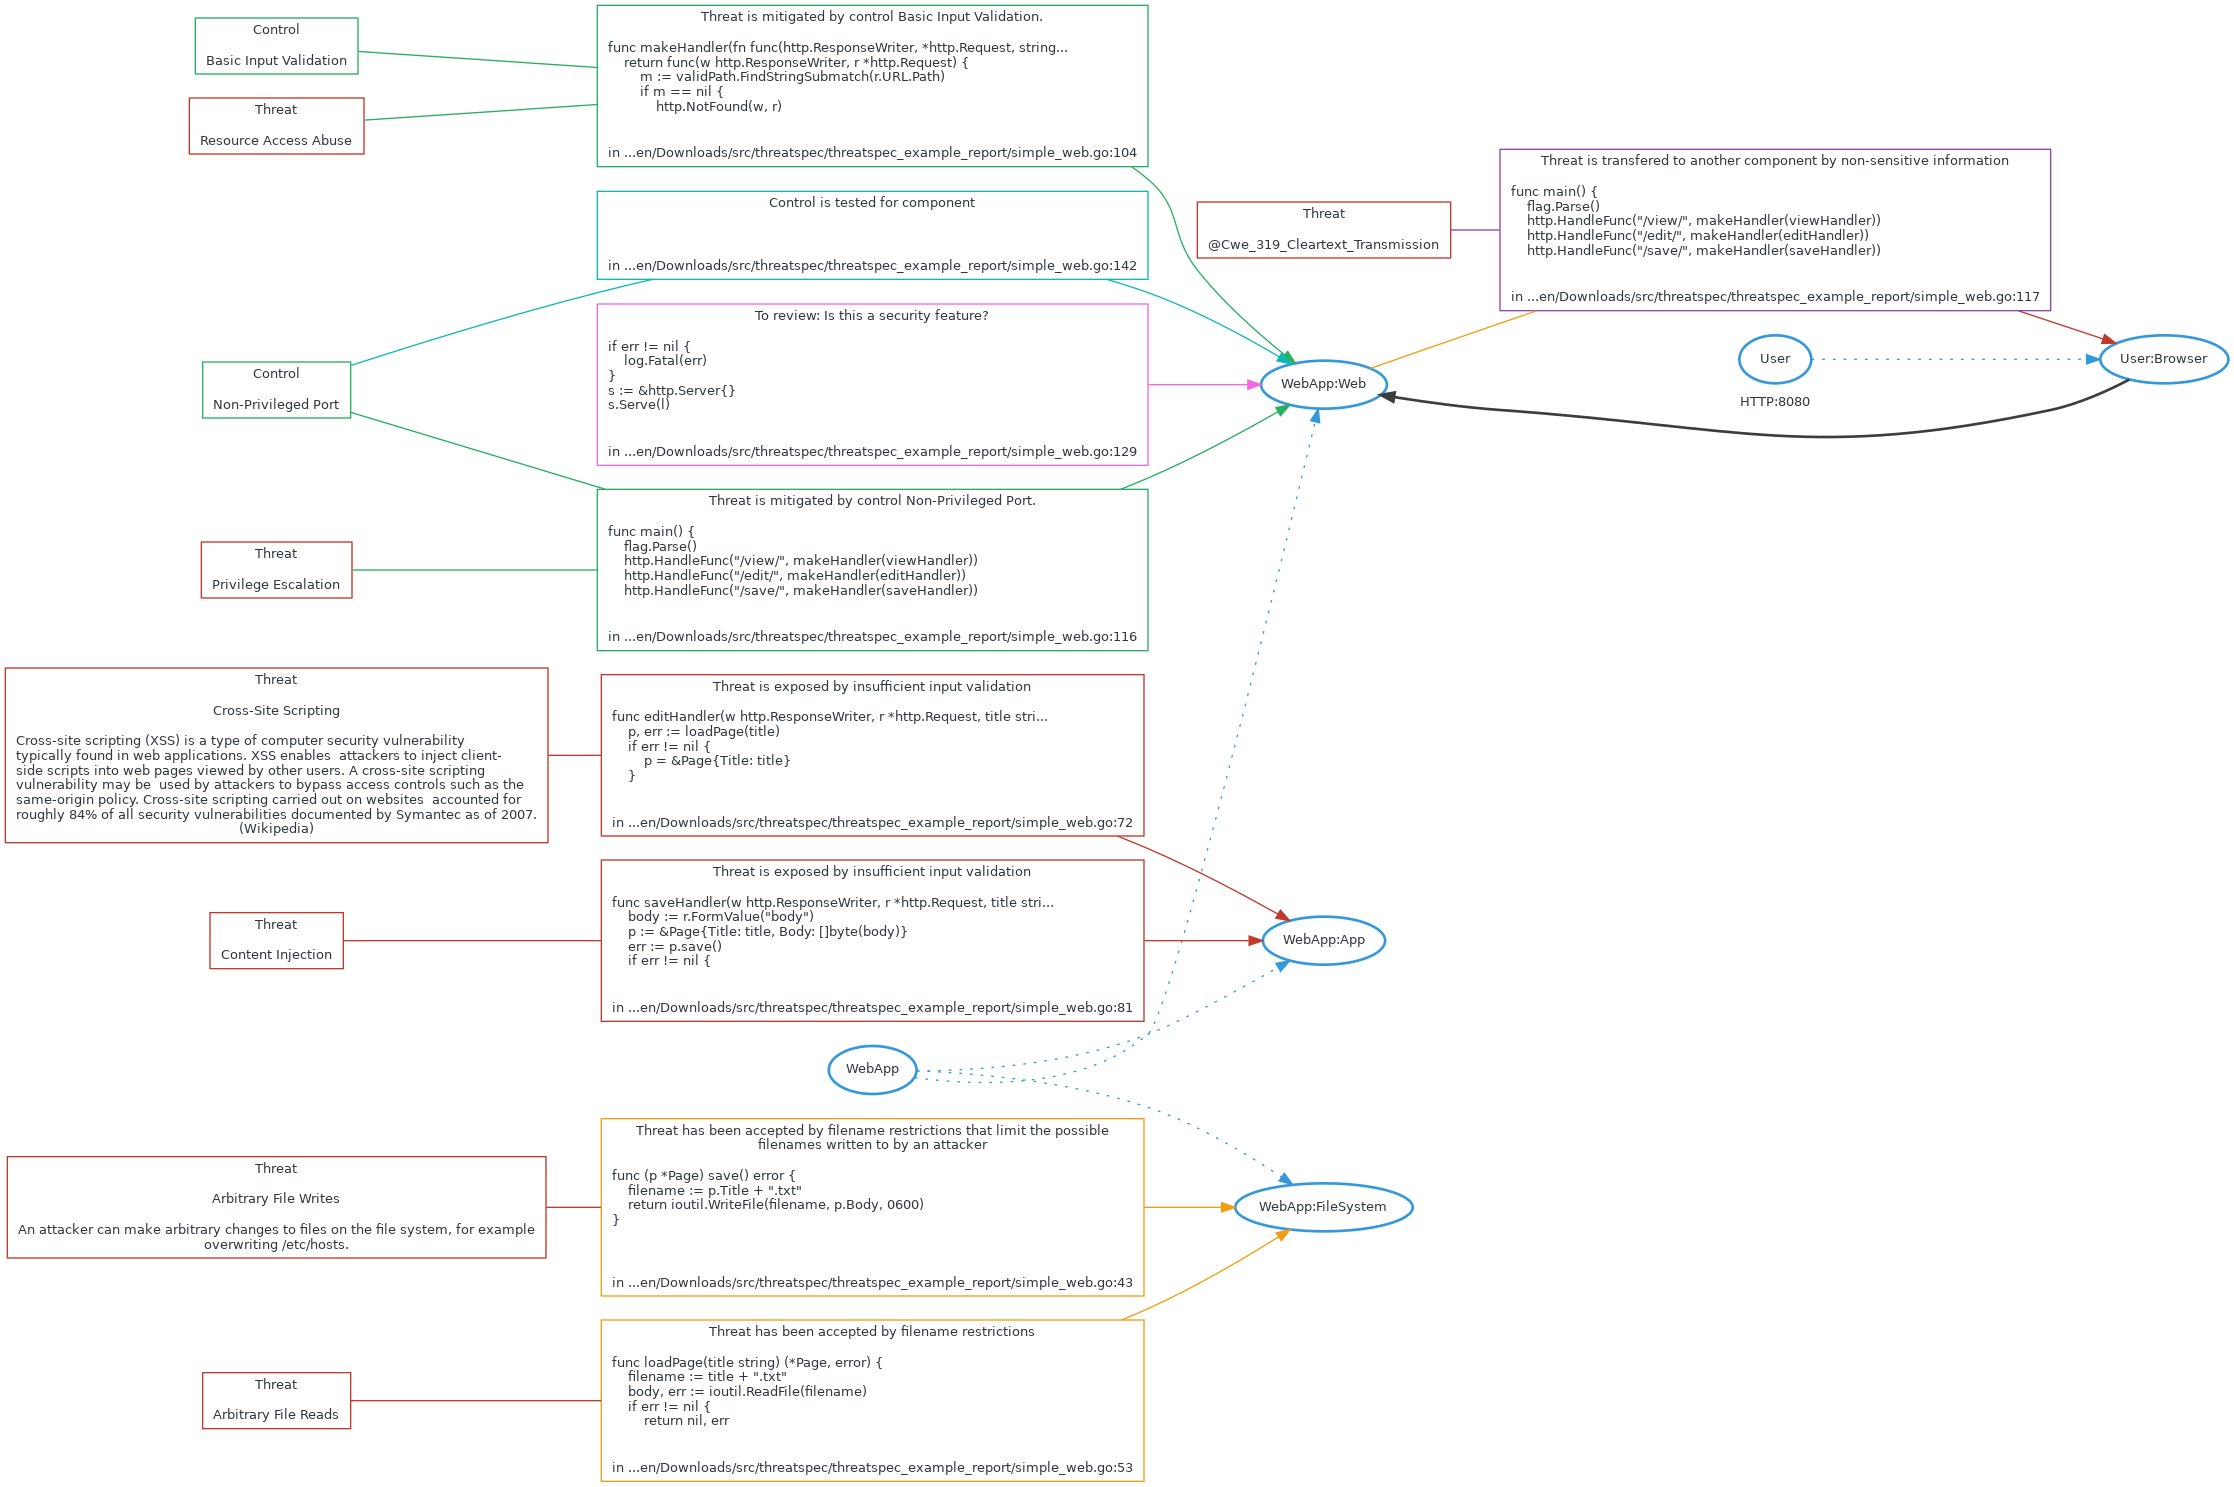
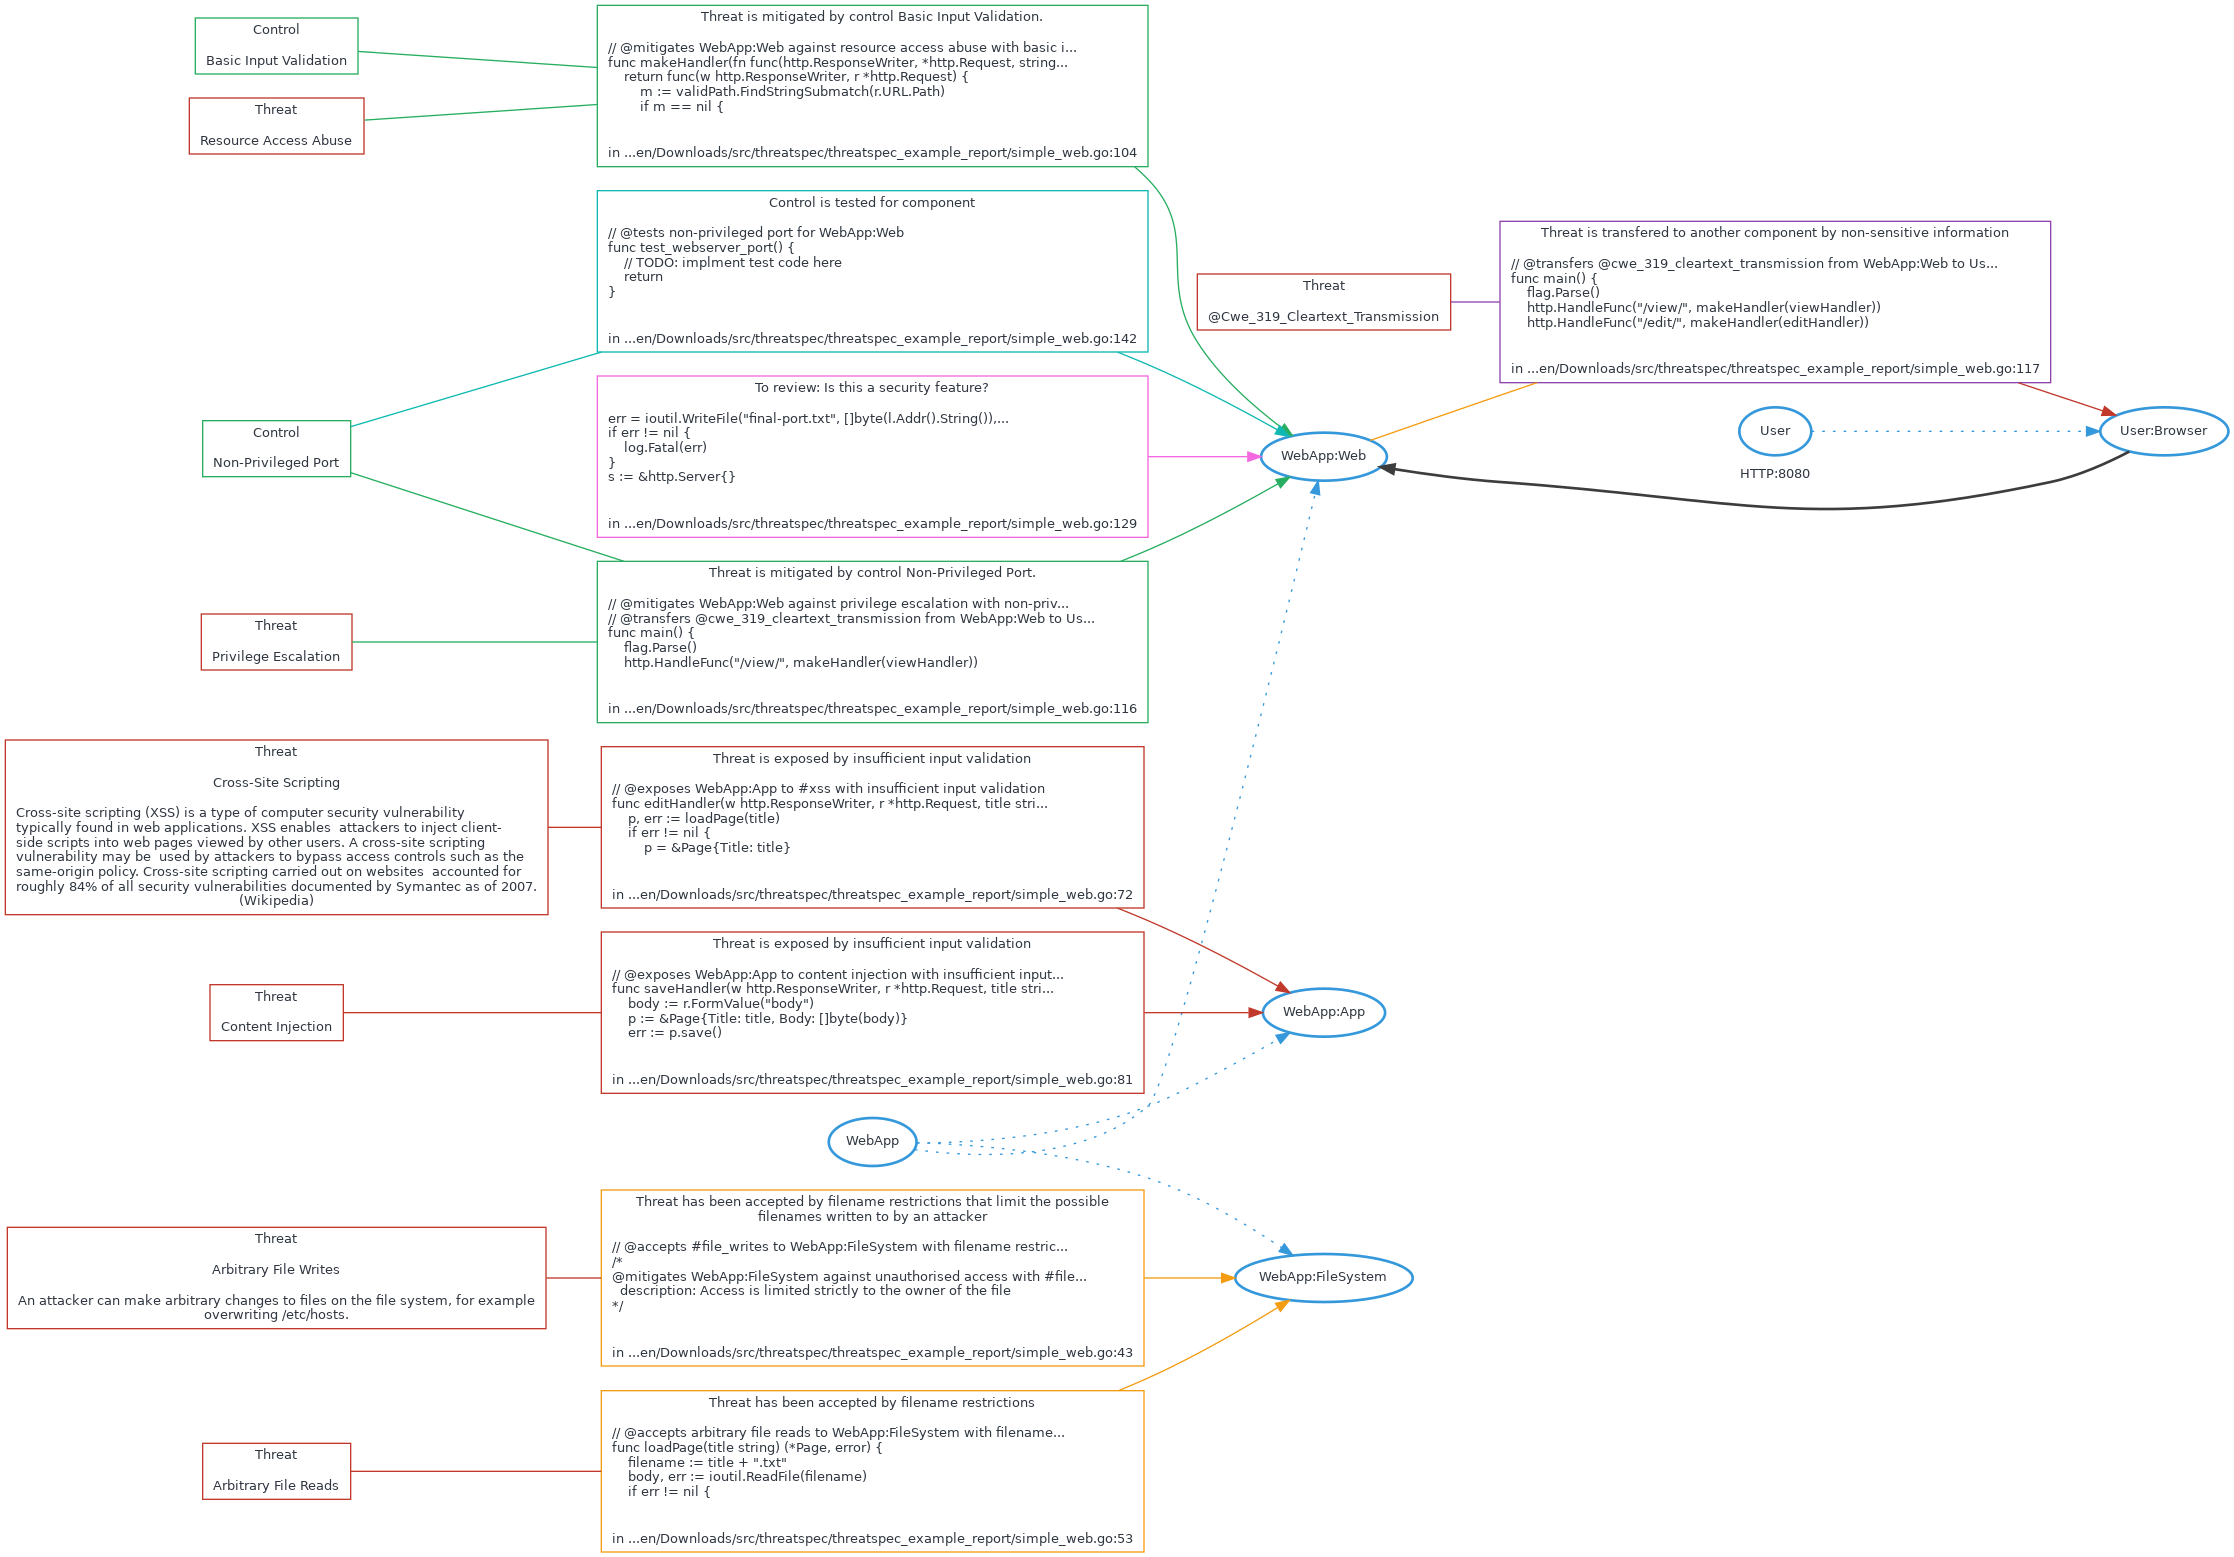
latest report fixes

diff --git a/simple_web.go b/simple_web.go
@@ -140,4 +140,7 @@ func main() {
 }
 
 // @tests non-privileged port for WebApp:Web
-// TODO: implment test code here
+func test_webserver_port() {
+    // TODO: implment test code here
+    return
+}

diff --git a/ThreatModel.md b/ThreatModel.md
@@ -1,4 +1,4 @@
-# threatspec project Threat Model
+# Threatspec Project Threat Model
 
 A threatspec project.
 
@@ -7,35 +7,200 @@ A threatspec project.
 ![Threat Model Diagram](ThreatModel.md.png)
 
 
-# Threats
 
-| Type | Component | Threat | Description | Test Count | File | Source |
-| ---- | --------- | ------ | ----------- | ---------- | ---- | ------ |
-| Exposure | WebApp:App | Cross-site Scripting | insufficient input validation | | /home/zeroxten/Downloads/src/threatspec/threatspec_example_report/simple_web.go:72 | func editHandler(w http.ResponseWriter, r *http.Request, title string) { |
-| Exposure | WebApp:App | content injection | insufficient input validation | | /home/zeroxten/Downloads/src/threatspec/threatspec_example_report/simple_web.go:81 | func saveHandler(w http.ResponseWriter, r *http.Request, title string) { |
-| Acceptance | WebApp:FileSystem | arbitrary file writes | filename restrictions that limit the possible filenames written to by an attacker | | /home/zeroxten/Downloads/src/threatspec/threatspec_example_report/simple_web.go:43 | func (p *Page) save() error { |
-| Acceptance | WebApp:FileSystem | arbitrary file reads | filename restrictions | | /home/zeroxten/Downloads/src/threatspec/threatspec_example_report/simple_web.go:53 | func loadPage(title string) (*Page, error) { |
-| Transfer | User:Browser (from WebApp:Web) | @cwe_319_cleartext_transmission | non-sensitive information | | /home/zeroxten/Downloads/src/threatspec/threatspec_example_report/simple_web.go:117 | func main() { |
-| Mitigation | WebApp:Web | resource access abuse | basic input validation | 0 | /home/zeroxten/Downloads/src/threatspec/threatspec_example_report/simple_web.go:104 | func makeHandler(fn func(http.ResponseWriter, *http.Request, string)) http.HandlerFunc { |
-| Mitigation | WebApp:Web | privilege escalation | non-privileged port | 1 | /home/zeroxten/Downloads/src/threatspec/threatspec_example_report/simple_web.go:116 | func main() { |
+# Exposures
+
+## Cross-site scripting against WebApp:App
+Insufficient input validation
+
+```
+// @exposes WebApp:App to #xss with insufficient input validation
+func editHandler(w http.ResponseWriter, r *http.Request, title string) {
+    p, err := loadPage(title)
+    if err != nil {
+        p = &Page{Title: title}
+
+```
+/home/zeroxten/Downloads/src/threatspec/threatspec_example_report/simple_web.go:72
+
+## Content injection against WebApp:App
+Insufficient input validation
+
+```
+// @exposes WebApp:App to content injection with insufficient input validation
+func saveHandler(w http.ResponseWriter, r *http.Request, title string) {
+    body := r.FormValue("body")
+    p := &Page{Title: title, Body: []byte(body)}
+    err := p.save()
+
+```
+/home/zeroxten/Downloads/src/threatspec/threatspec_example_report/simple_web.go:81
 
 
-# Tests
+# Acceptances
 
-| Component | Control | Test | File |
-| --------- | ------- | ---- | ---- |
-| WebApp:Web | non-privileged port |  | /home/zeroxten/Downloads/src/threatspec/threatspec_example_report/simple_web.go:142 |
+## Arbitrary file writes to WebApp:FileSystem
+Filename restrictions that limit the possible filenames written to by an attacker
+
+```
+// @accepts #file_writes to WebApp:FileSystem with filename restrictions that limit the possible filenames written to by an attacker
+/*
+@mitigates WebApp:FileSystem against unauthorised access with #file_perms:
+  description: Access is limited strictly to the owner of the file
+*/
+
+```
+/home/zeroxten/Downloads/src/threatspec/threatspec_example_report/simple_web.go:43
+
+## Arbitrary file reads to WebApp:FileSystem
+Filename restrictions
+
+```
+// @accepts arbitrary file reads to WebApp:FileSystem with filename restrictions
+func loadPage(title string) (*Page, error) {
+    filename := title + ".txt"
+    body, err := ioutil.ReadFile(filename)
+    if err != nil {
+
+```
+/home/zeroxten/Downloads/src/threatspec/threatspec_example_report/simple_web.go:53
+
+
+# Transfers
+
+
+# Mitigations
+
+## Resource access abuse against WebApp:Web mitigated by Basic input validation
+
+
+```
+// @mitigates WebApp:Web against resource access abuse with basic input validation
+func makeHandler(fn func(http.ResponseWriter, *http.Request, string)) http.HandlerFunc {
+    return func(w http.ResponseWriter, r *http.Request) {
+        m := validPath.FindStringSubmatch(r.URL.Path)
+        if m == nil {
+
+```
+/home/zeroxten/Downloads/src/threatspec/threatspec_example_report/simple_web.go:104
+
+## Privilege escalation against WebApp:Web mitigated by Non-privileged port
+
+
+```
+// @mitigates WebApp:Web against privilege escalation with non-privileged port
+// @transfers @cwe_319_cleartext_transmission from WebApp:Web to User:Browser with non-sensitive information
+func main() {
+    flag.Parse()
+    http.HandleFunc("/view/", makeHandler(viewHandler))
+
+```
+/home/zeroxten/Downloads/src/threatspec/threatspec_example_report/simple_web.go:116
+### Tests
+
+#### Non-privileged port for WebApp:Web
+
+```
+// @tests non-privileged port for WebApp:Web
+func test_webserver_port() {
+    // TODO: implment test code here
+    return
+}
+
+```
+/home/zeroxten/Downloads/src/threatspec/threatspec_example_report/simple_web.go:142
+
+
 
 
 # Reviews
 
-| Component | Details | Filename | Line | Code |
-| --------- | ------- | -------- | ---- | ---- |
-| WebApp:Web | Is this a security feature? | /home/zeroxten/Downloads/src/threatspec/threatspec_example_report/simple_web.go | 129 |         if err != nil { |
+## WebApp:Web
+Is this a security feature?
+
+```
+        err = ioutil.WriteFile("final-port.txt", []byte(l.Addr().String()), 0644) // @review WebApp:Web Is this a security feature?
+        if err != nil {
+            log.Fatal(err)
+        }
+        s := &http.Server{}
+
+```
+/home/zeroxten/Downloads/src/threatspec/threatspec_example_report/simple_web.go:129
 
 
 # Connections
 
-| Source Component | Destination Component | Description | File | Source |
-| ---------------- | --------------------- | ----------- | ---- | ------ |
-| User:Browser | WebApp:Web | HTTP:8080 | /home/zeroxten/Downloads/src/threatspec/threatspec_example_report/simple_web.go:138 |  |
+## User:Browser To WebApp:Web
+HTTP:8080
+
+```
+    http.ListenAndServe(":8080", nil) // @connects User:Browser to WebApp:Web with HTTP:8080
+
+}
+
+// @tests non-privileged port for WebApp:Web
+
+```
+/home/zeroxten/Downloads/src/threatspec/threatspec_example_report/simple_web.go:138
+
+
+# Components
+
+## WebApp:Web
+
+## WebApp:App
+
+## User:Browser
+
+## WebApp:FileSystem
+
+
+# Threats
+
+## Resource access abuse
+
+
+## Privilege escalation
+
+
+## Cross-site scripting
+| Custom Key | Value |
+| --- | --- |
+| **Impact** | high |
+
+
+
+### Description
+Cross-site scripting (XSS) is a type of computer security vulnerability typically found in web applications. XSS enables 
+attackers to inject client-side scripts into web pages viewed by other users. A cross-site scripting vulnerability may be 
+used by attackers to bypass access controls such as the same-origin policy. Cross-site scripting carried out on websites 
+accounted for roughly 84% of all security vulnerabilities documented by Symantec as of 2007. (Wikipedia)
+
+
+## Content injection
+
+
+## @cwe_319_cleartext_transmission
+
+
+## Arbitrary file writes
+| Custom Key | Value |
+| --- | --- |
+| **Impact** | high |
+
+
+
+### Description
+An attacker can make arbitrary changes to files on the file system, for example overwriting /etc/hosts.
+
+
+## Arbitrary file reads
+
+
+
+# Controls
+
+## Non-privileged port
+
+## Basic input validation
